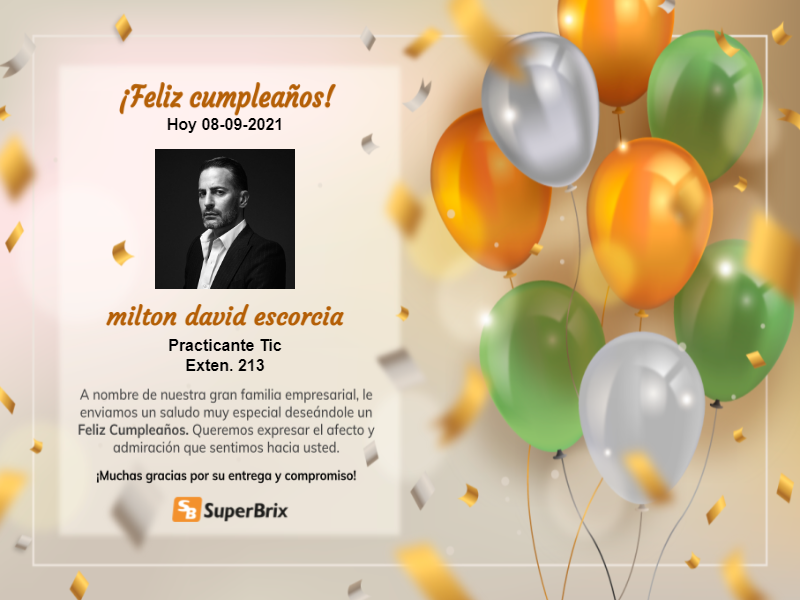
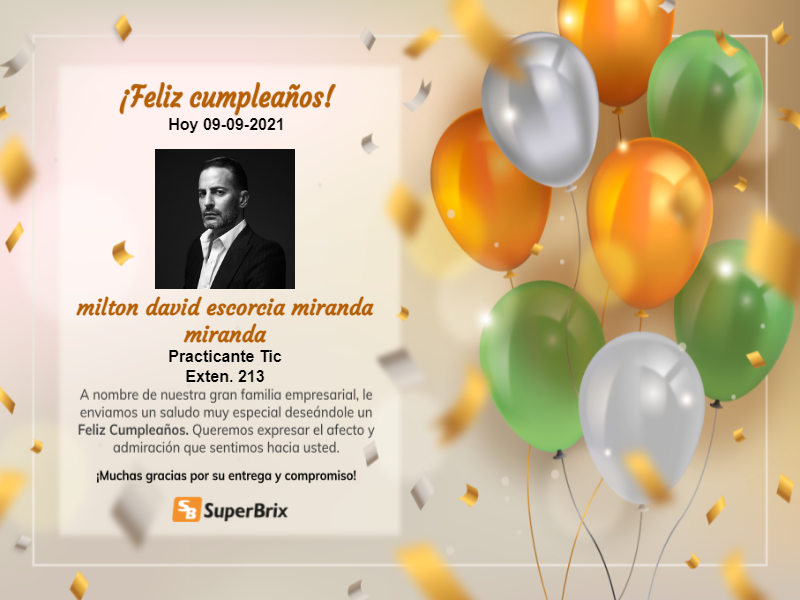
esta funcionando

Changed region(s): [[0.0938, 0.48, 0.4688, 0.66], [0.2188, 0.18, 0.375, 0.24]]

diff --git a/Controllers/template_model.php b/Controllers/template_model.php
@@ -26,13 +26,13 @@ $cont = 1;
             <div style="padding-top: 60px; padding-left: 55px; width: 340px; height: 474px;">
                     <h4 style="text-align: center; margin-bottom: 2px; font-family: 'Courgette', cursive; font-size: 20px; color: #b45f06"></h4>
                     
-                    <p style="text-align: center; margin-top: 0; font-family: 'Exo', sans-serif; padding-top: 28px;"><strong>Hoy <?php echo $fechaActual; ?></strong></p>
+                    <p style="text-align: center;margin-left: 3px; margin-top: 0; font-family: 'Exo', sans-serif; padding-top: 28px;"><strong>Hoy <?php echo $fechaActual; ?></strong></p>
                 <div class="foto">
                     <center><img src="<?php $_SERVER['DOCUMENT_ROOT']?>/AUTO-EMAIL/Views/assets/img/faces/perfil1.jpg" width="140" height="140"style="text-align: center; margin:0 auto;" alt="" srcset=""></center>
                 </div>
-                <center><h4 style="text-align: center; margin-top: 5px; margin-bottom: 2px; padding-top: 2px; font-family: 'Courgette', cursive; font-size: 25px; color: #b45f06"><?php echo $ListarDatos['nombres']; ?></h4></center>
+                <center><h4 style="text-align: center; margin: 0; font-family: 'Courgette', cursive; font-size: 22px; color: #b45f06"><?php echo $ListarDatos['nombres']; ?></h4></center>
                     
-                <center><p style="text-align: center; margin-bottom: 2px; font-family: 'Exo', sans-serif; margin-top: 5px;"><strong><?php echo $ListarDatos['cargo']; ?></strong></p></center>
+                <center><p style="text-align: center; font-family: 'Exo', sans-serif; margin: 0;"><strong><?php echo $ListarDatos['cargo']; ?></strong></p></center>
                 <center><p style="text-align: center; margin-top: 2px; font-family: 'Exo', sans-serif;"><strong>Exten. <?php echo $ListarDatos['exten']; ?></strong></p></center>
             </div>          
       </div>

diff --git a/send_email_html.php b/send_email_html.php
@@ -20,23 +20,28 @@
 		$nombres[] = $datos['nombres'];
 		$ruta = "Archivos/";
 		$ruta_completa = $ruta . $id;
-		$etiqueta = '<h1> src="[TEMPLATE]" alt="plantilla" srcset=""</h1>';
+		$etiqueta[] = '<h1> src="[TEMPLATE]" alt="plantilla" srcset=""</h1>';
 		$etiqueta = str_replace('[TEMPLATE]' , $ruta_completa.'.png', $etiqueta);
-		echo $etiqueta;	
-	$email_subject = 'Feliz Cumpleanos! ' . implode(", ", $nombres);
-	if (mail($to, $email_subject, $etiqueta, $email_headers) ){
-		echo '<hr /><center>Exitoo! Tu Correo ha sido enviado a '. $to .'</center>';
-	}
+			
+		$email_subject = 'Feliz Cumpleanos! ' . implode(", ", $nombres);
+		$cadena = implode('</br>', $etiqueta);
+		var_dump($cadena);
 	}
 	
 
 	//este while envia el correo a multiples destinatarios
 	while ($persona = $resultado_cons_correo->fetch_assoc()) {
-    	$to = $persona['correo'].',';
+		$to[] = $persona['correo'];
+    	$sent_to = implode(",", $to);
   	}
+	
+	echo $sent_to;
+	
 	if (DEMO)
 	die("<hr /><center>Esto es un demo de la plantilla HTML. El correo no fue enviado. </center>");	
 	//comprobamos el envio de correo
-	
+	if (mail($sent_to, $email_subject, $cadena, $email_headers) ){
+		echo '<hr /><center>Exitoo! Tu Correo ha sido enviado a '. print_r($sent_to) .'</center>';
+	}
 
 ?>

diff --git a/Controllers/edit-empleado.php b/Controllers/edit-empleado.php
@@ -28,7 +28,7 @@
             $cargo = $_POST['cargo'];
             $exten = $_POST['exten'];
 
-            $query = "UPDATE personas set nombres = '$nombres', cargo = '$cargo', exten = '$exten', correo = '$correo' WHERE id = $id";
+            $query = "UPDATE personas set nombres = '$nombres', cargo = '$cargo', exten = '$exten', fecha_nacimiento = '$nac', correo = '$correo' WHERE id = $id";
             mysqli_query($mysqli, $query);
             $_SESSION['message'] = 'Person@ Actualizada Sastifactoriamente';
             $_SESSION['message_type'] = 'success';
